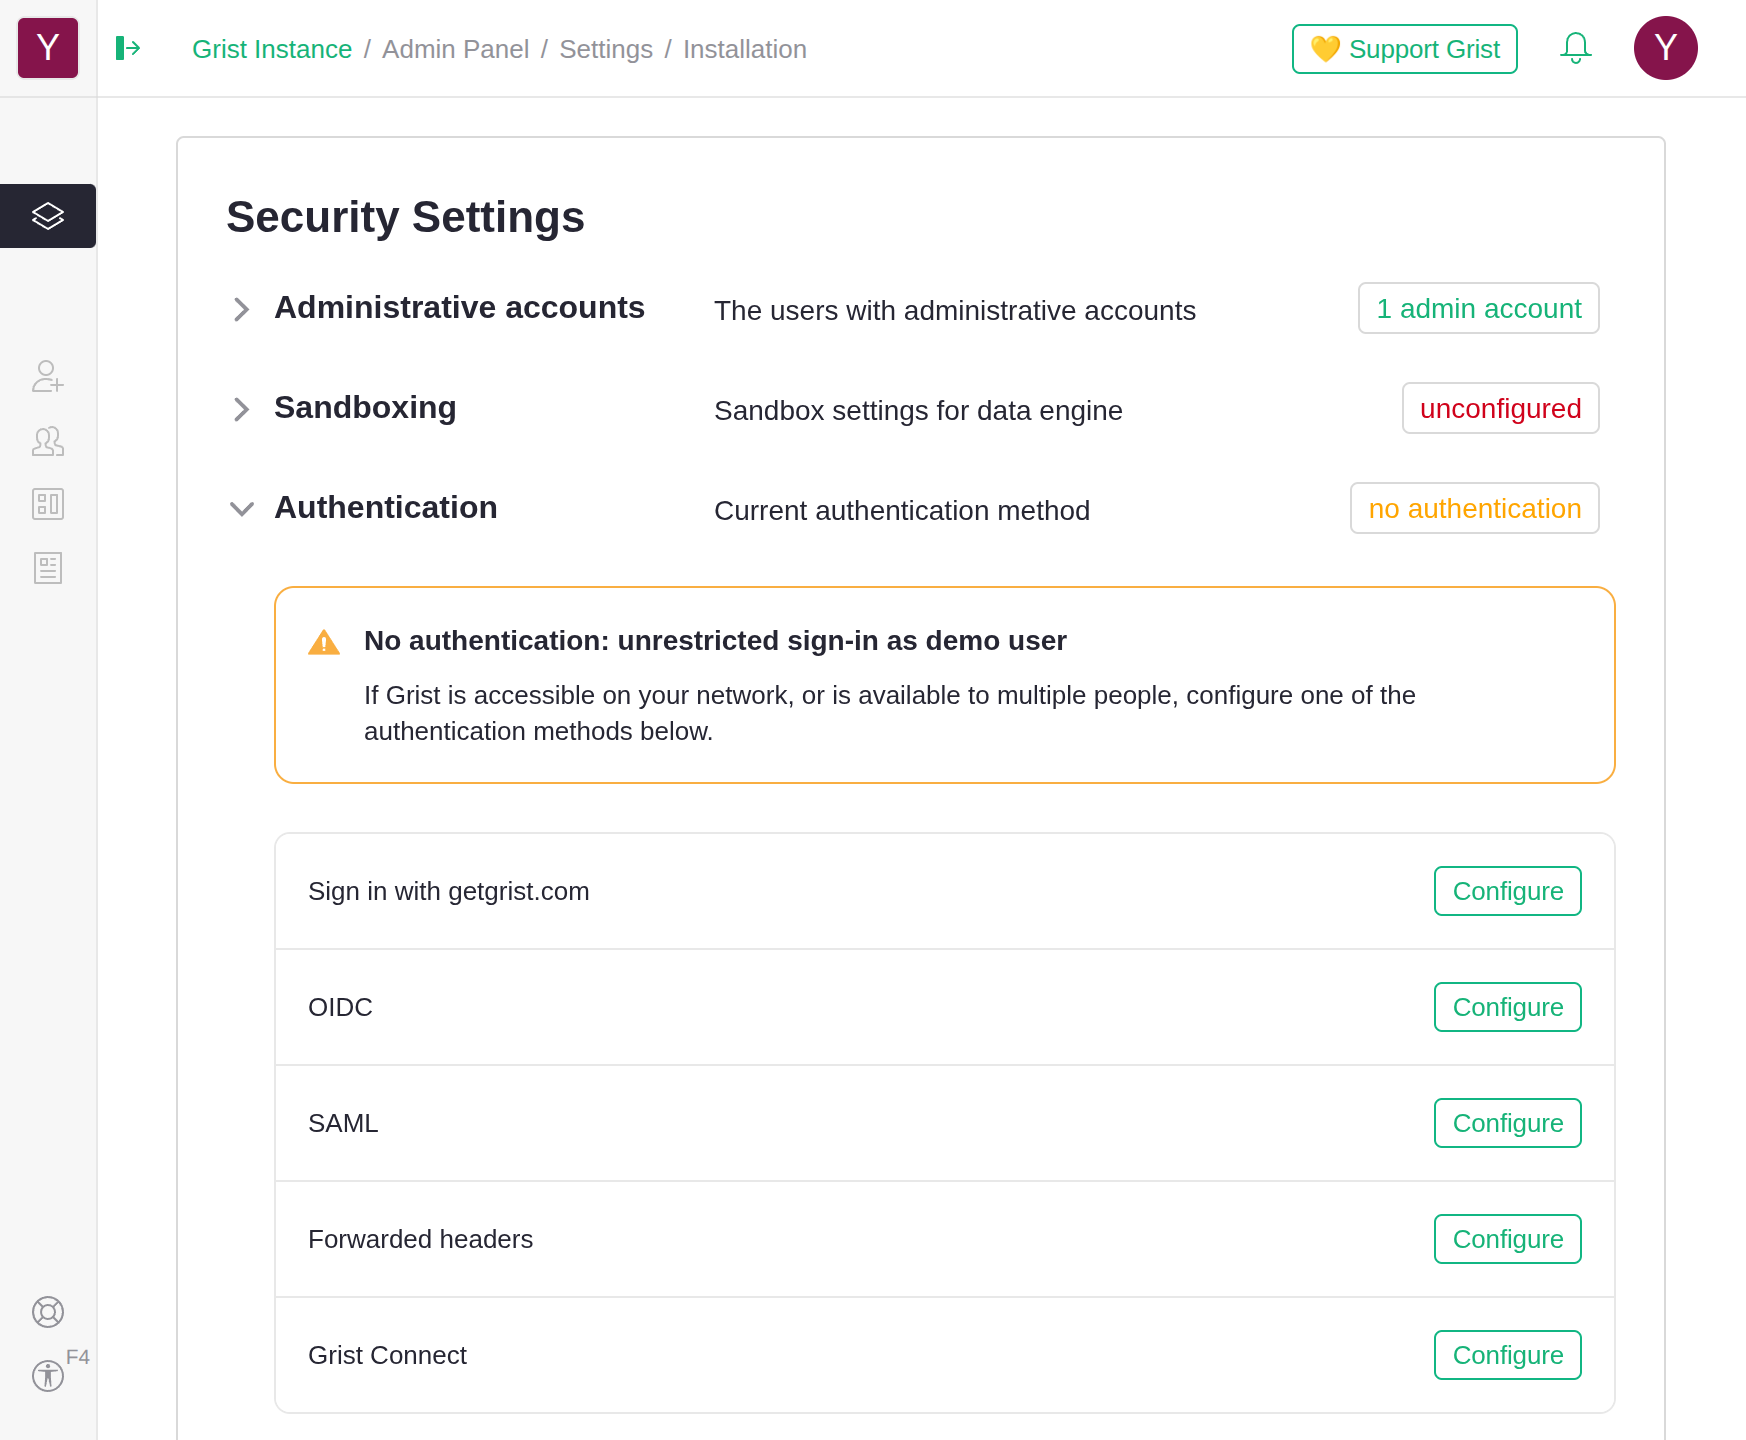
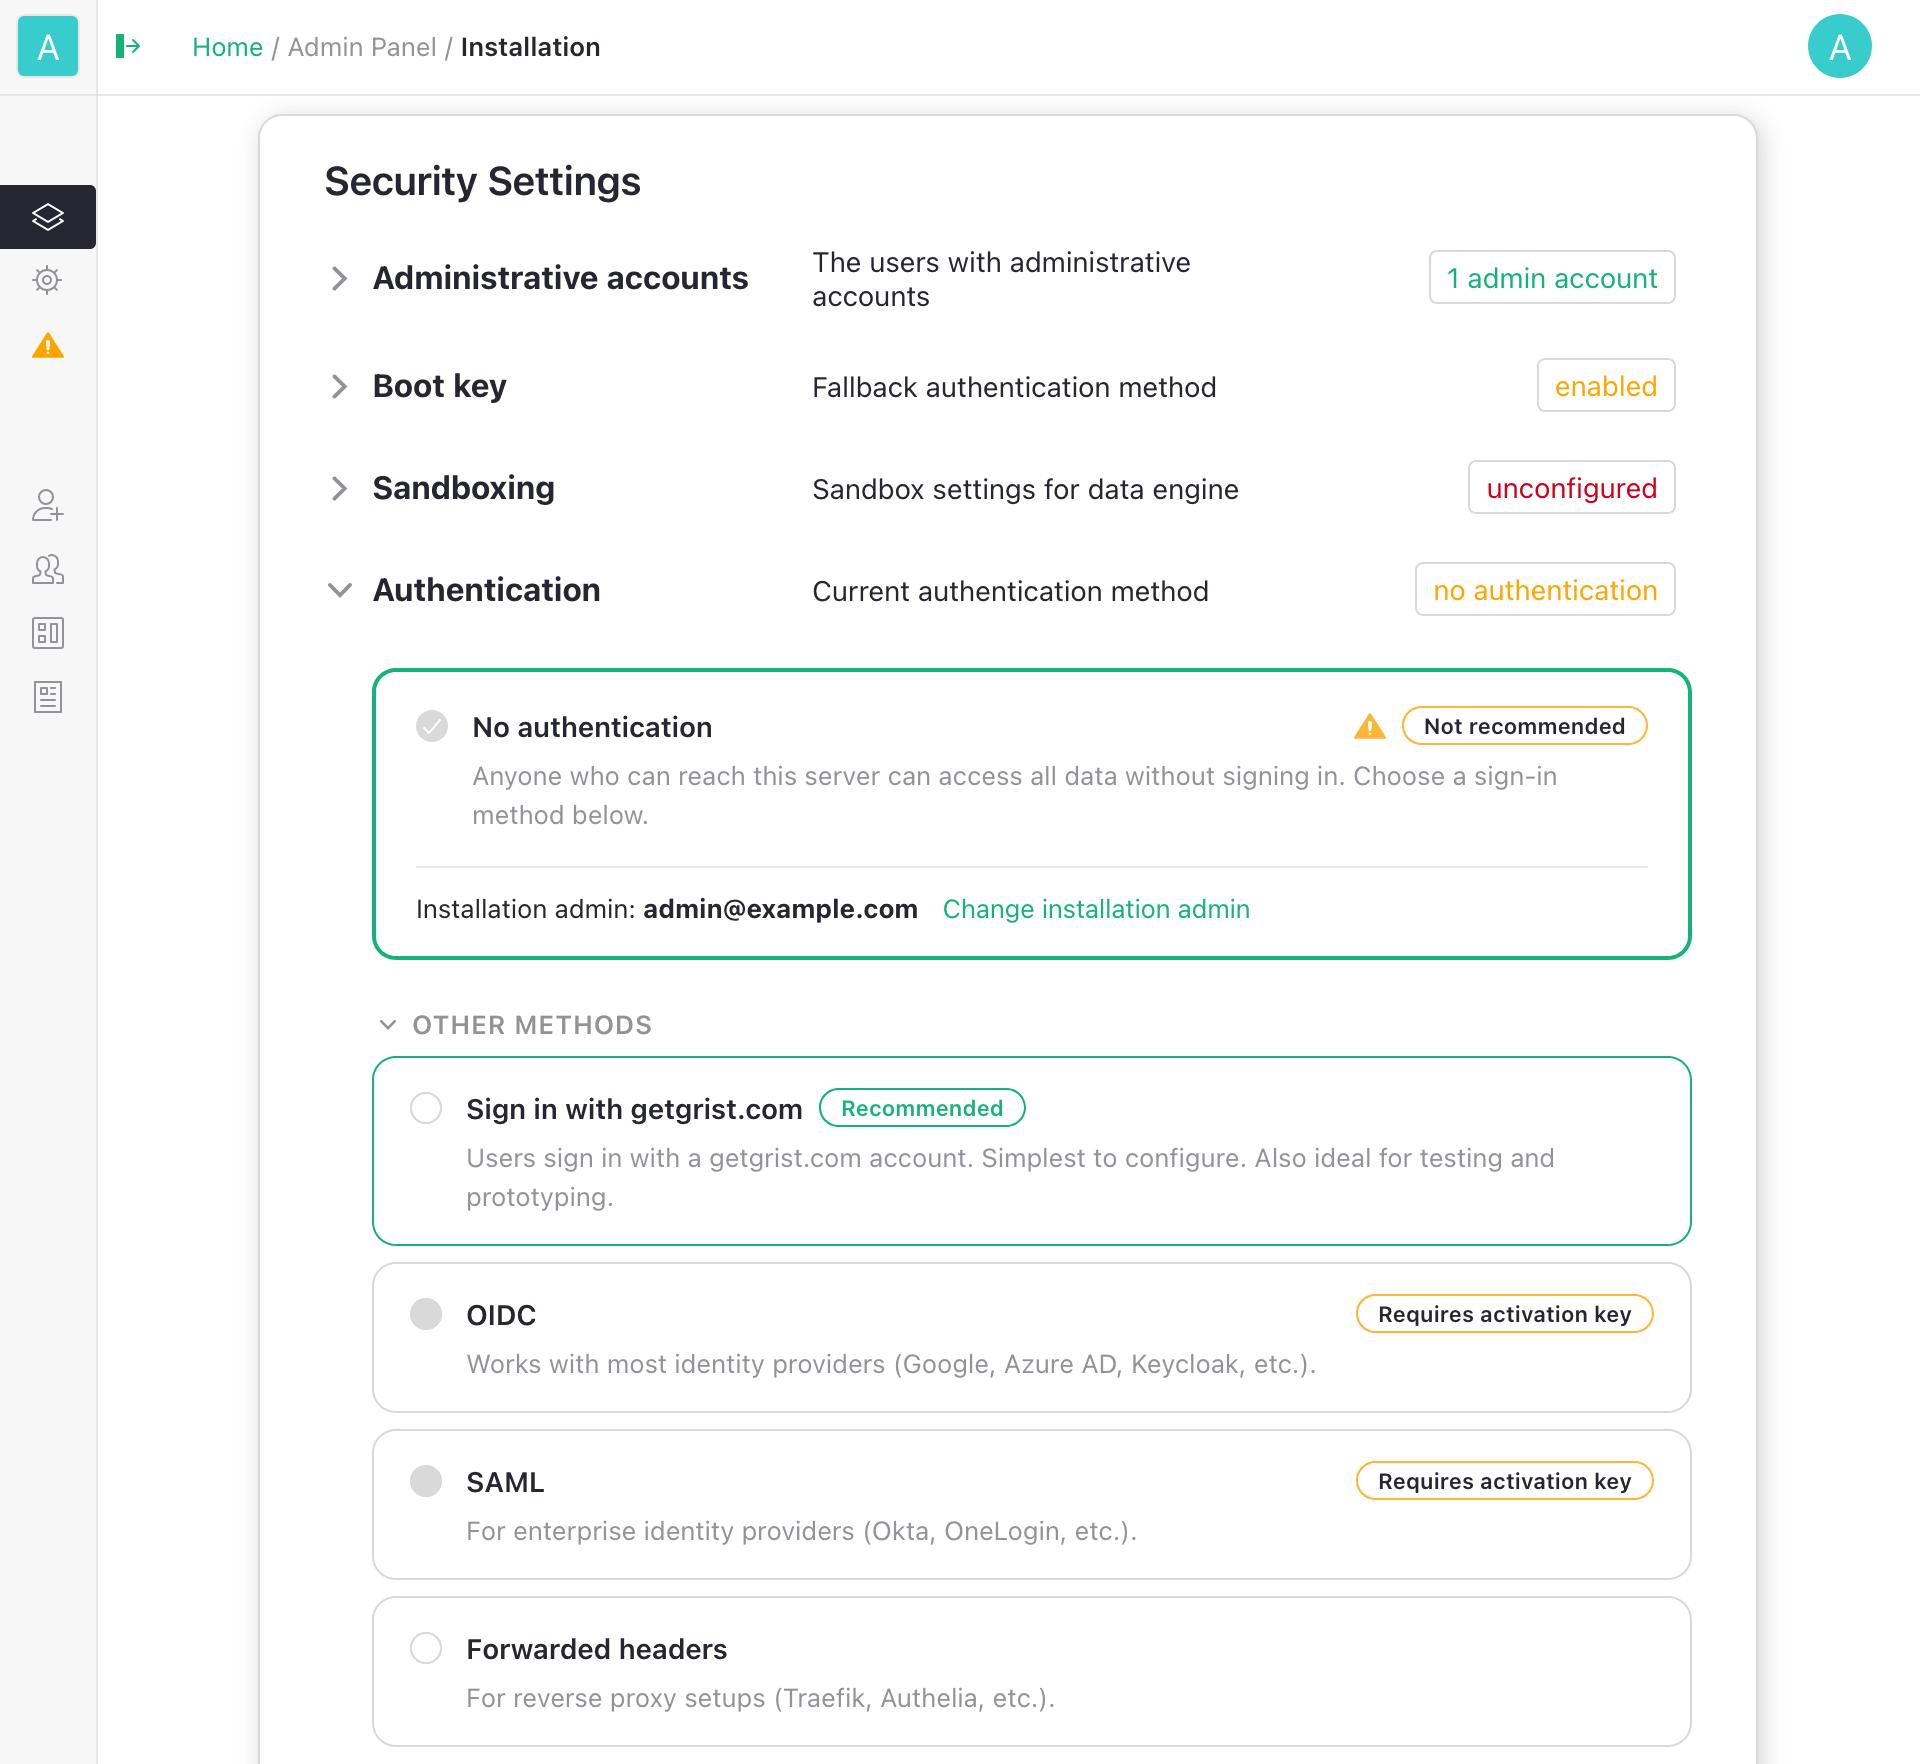
OIDC/SAML single sign-on now needs an activation key for full support
Explain that self-hosted OIDC and SAML sign-in are fully supported with
an activation key, despite remaining open source. Explain and mention
alternatives: "Sign in with getgrist.com" and forwarded headers remain
available in all editions.

Also update the setup wizard and admin panel screenshots for the
redesigned setup UI.

diff --git a/help/en/docs/self-managed.md b/help/en/docs/self-managed.md
@@ -11,9 +11,9 @@ description: The essentials of creating and maintaining a self-hosted Grist inst
 
 There are two flavors of self-hosted Grist, the full edition and Grist Community edition. 
 
-The full edition of Grist is a licensed application that can be installed by enterprises on their own infrastructure with our support or hosted on dedicated Grist-managed infrastructure. This edition includes all features enabled for improved security, governance, and collaboration, such as advanced admin controls, automations, email notifications, AI assistance, and more. 
+The full edition of Grist is a licensed application that can be installed by enterprises on their own infrastructure with our support or hosted on dedicated Grist-managed infrastructure. This edition includes all features enabled for improved security, governance, and collaboration, such as single sign-on (SSO), advanced admin controls, automations, email notifications, AI assistance, and more. 
 
-Grist Community edition is the free and open-source heart of Grist, with everything you need to open and edit Grist documents, control access, create forms, connect to single sign-on (SSO) providers, and much more.
+Grist Community edition is the free and open-source heart of Grist, with everything you need to open and edit Grist documents, control access, create forms, and much more.
 
 Grist is also available as a desktop application based on Grist Community edition and built with Electron. It is available for download at [https://github.com/gristlabs/grist-desktop/releases](https://github.com/gristlabs/grist-desktop/releases). Grist Desktop does not need internet and is not tied to any online account or service.
 
@@ -263,7 +263,7 @@ automatic right to team site membership.
 
 ### How do I set up authentication? {: .tag-core .tag-ee }
 
-Grist offers [several authentication methods](install/authentication-overview.md#getting-started) to help satisfy each organization's specific security requirements.
+Grist offers [several authentication methods](install/authentication-overview.md#getting-started) to help satisfy each organization's specific security requirements. Authentication options [Sign in with getgrist.com](install/sign-in-with-grist.md) and [forwarded headers](install/forwarded-headers.md) are available in all editions; connecting directly to your own identity provider via [OIDC](install/oidc.md) or [SAML](install/saml.md) is [fully supported](#how-do-i-enable-the-full-edition-of-grist) with an activation key.
 
 For any authentication method, you may want to also consider setting the
 following variables:

diff --git a/help/en/docs/install/authentication-overview.md b/help/en/docs/install/authentication-overview.md
@@ -19,18 +19,22 @@ getgrist.com authentication is built on the industry-standard OAuth 2.0 and Open
 
 [Learn more about setting up Sign in with getgrist.com](sign-in-with-grist.md).
 
-### OpenID Connect (OIDC) {: .tag-core .tag-ee}
+### OpenID Connect (OIDC) {: .tag-ee}
 OIDC allows users on your Grist server to sign in using an external identity provider that supports the OIDC standard.
 
 When signing in, users will be redirected to your chosen identity provider's login page to authenticate. After successful authentication, they'll be redirected back to your Grist server and signed in as the user verified by the provider.
 
+OIDC sign-in is fully supported with an [activation key](../self-managed.md#how-do-i-enable-the-full-edition-of-grist).
+
 [Learn more about setting up OIDC](oidc.md).
 
-### SAML {: .tag-core .tag-ee}
+### SAML {: .tag-ee}
 SAML allows users on your Grist server to sign in using an external identity provider that supports the SAML 2.0 standard.
 
 
 When signing in, users will be redirected to your chosen identity provider's login page to authenticate. After successful authentication, they'll be redirected back to your Grist server and signed in as the user verified by the provider.
+
+SAML sign-in is fully supported with an [activation key](../self-managed.md#how-do-i-enable-the-full-edition-of-grist).
 
 [Learn more about setting up SAML](saml.md).
 

diff --git a/help/en/docs/install/oidc.md b/help/en/docs/install/oidc.md
@@ -2,8 +2,14 @@
 title: OIDC
 ---
 
-OpenID Connect {: .tag-core .tag-ee }
+OpenID Connect {: .tag-ee }
 ====
+
+!!! note "Activation key required"
+    OIDC sign-in is fully supported with an activation key, as part of the
+    [full edition](../self-managed.md#how-do-i-enable-the-full-edition-of-grist) of Grist.
+    Activation keys are free for individuals and small orgs (see
+    [details](https://www.getgrist.com/free-grist-activation-key-faq/)).
 
 Configuration for OIDC, useful for organization single-sign-on logins.
 A good informative overview of OIDC is at <https://developer.okta.com/blog/2019/10/21/illustrated-guide-to-oauth-and-oidc>

diff --git a/help/en/docs/install/first-run-setup.md b/help/en/docs/install/first-run-setup.md
@@ -144,8 +144,8 @@ guidance on which to pick:
   - [Sign in with getgrist.com](sign-in-with-grist.md): managed auth by
     Grist Labs. Quickest to set up.
   - [OIDC](oidc.md): works with Google, Okta, Auth0, Keycloak, and most
-    other identity providers.
-  - [SAML](saml.md): for enterprise SSO.
+    other identity providers. Requires an activation key.
+  - [SAML](saml.md): for enterprise SSO. Requires an activation key.
   - [Forwarded headers](forwarded-headers.md): when an upstream proxy
     already authenticated the user.
   - [GristConnect](grist-connect.md): for sites that already speak

diff --git a/help/en/docs/install/saml.md b/help/en/docs/install/saml.md
@@ -2,8 +2,14 @@
 title: SAML
 ---
 
-SAML {: .tag-core .tag-ee }
+SAML {: .tag-ee }
 ====
+
+!!! note "Activation key required"
+    SAML sign-in is fully supported with an activation key, as part of the
+    [full edition](../self-managed.md#how-do-i-enable-the-full-edition-of-grist) of Grist.
+    Activation keys are free for individuals and small orgs (see
+    [details](https://www.getgrist.com/free-grist-activation-key-faq/)).
 
 Configuration for SAML, useful for enterprise single-sign-on logins.
 A good informative overview of SAML is at <https://www.okta.com/integrate/documentation/saml/>

diff --git a/help/en/docs/technical-docs.md b/help/en/docs/technical-docs.md
@@ -35,6 +35,7 @@ and more.
 Grist Community edition is free, open-source and fully functional for many use cases. The
 [full version of Grist](self-managed.md#how-do-i-enable-the-full-edition-of-grist) adds features for organizations that need tighter security, compliance, and
 operational control, including
+[single sign-on](install/authentication-overview.md) via OIDC or SAML,
 [audit logging](install/audit-log-overview.md) with
 [streaming to SIEM systems](install/audit-log-streaming.md),
 [Admin Controls](admin-controls.md) for managing users and resources,
